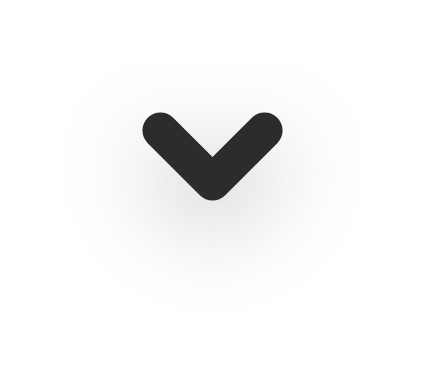
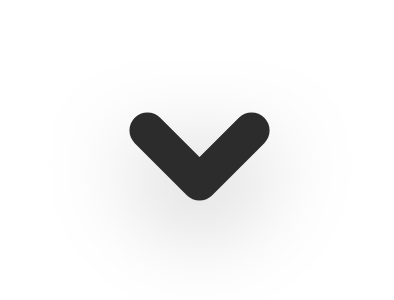
arrow fixed, dropdown animation

Changed region(s): [[0.3046, 0.3, 0.7005, 0.69]]

diff --git a/App.js b/App.js
@@ -71,7 +71,7 @@ export default function App() {
   const [bodyText, setBodyText] = React.useState('');
   const [currentKey, setCurrentKey] = React.useState('myCOLOR');
 
-  const [headerMenu, setHeaderMenu] = React.useState(new Animated.Value(60));
+  const [headerMenu, setHeaderMenu] = React.useState(new Animated.Value(90));
   const [
     headerMenuOptionsVisible,
     setHeaderMenuOptionsVisible,
@@ -161,12 +161,12 @@ export default function App() {
   };
 
   const toggleHeader = () => {
-    if (headerMenu._value === 200) {
-      Animated.timing(headerMenu, {
-        toValue: 30,
-        duration: 400,
-        easing: Easing.bounce,
+    if (headerMenu._value > 120) {
+      Animated.spring(headerMenu, {
+        toValue: 50,
+        bounciness: 0.5,
         useNativeDriver: false,
+        speed: 0.2
       }).start(toggleHeaderMenu(false));
       Animated.timing(spinValue, {
         toValue: 0,
@@ -178,11 +178,11 @@ export default function App() {
       setoptionsHeaderVisible(false);
       setHeaderMenuOptionsVisible(true);
       setoptionsVisible(true);
-      Animated.timing(headerMenu, {
+      Animated.spring(headerMenu, {
         toValue: 200,
-        duration: 400,
-        easing: Easing.bounce,
+        bounciness: 0.5,
         useNativeDriver: false,
+        speed: 0.2
       }).start(toggleHeaderMenu(true));
       Animated.timing(spinValue, {
         toValue: 1,
@@ -515,18 +515,18 @@ const styles = StyleSheet.create({
   headerText: {
     fontFamily: 'CircularStd-Black',
     color: 'black',
-    fontSize: hp('2.2%'),
+    fontSize: hp('2.35%'),
     textAlign: 'center'
   },
   bodyText: {
     fontFamily: 'CircularStd-Book',
     color: 'black',
-    fontSize: hp('2.2%')
+    fontSize: hp('2.35%')
   },
   topBold: {
     fontFamily: 'CircularStd-Black',
     color: 'black',
-    fontSize: hp('2.2%')
+    fontSize: hp('2.35%')
   },
   splash: {
         ...StyleSheet.absoluteFillObject,
@@ -553,19 +553,19 @@ const styles = StyleSheet.create({
     quizParagraph: {
       fontFamily: 'CircularStd-Book',
       color: 'black',
-      fontSize: hp('2.2%'),
+      fontSize: hp('2.35%'),
       },
       question: {
         fontFamily: 'CircularStd-Black',
         color: 'black',
-        fontSize: hp('2.2%'),
+        fontSize: hp('2.35%'),
         marginBottom: hp('7%'),
         marginTop: -hp('7%')
       },
       colorAttributesText: {
         fontFamily: 'CircularStd-Black',
         color: 'black',
-        fontSize: hp('2.2%'),
+        fontSize: hp('2.35%'),
         textTransform: 'capitalize',
         marginTop: hp('2%')
       },
@@ -577,7 +577,7 @@ const styles = StyleSheet.create({
       resultText: {
         fontFamily: 'CircularStd-Book',
         color: 'black',
-        fontSize: hp('2.2%'),
+        fontSize: hp('2.35%'),
         textAlign: 'center',
         marginTop: -hp('7%')
       },
@@ -612,7 +612,7 @@ const styles = StyleSheet.create({
       creditsTxt: {
         fontFamily: 'CircularStd-Book',
         color: 'black',
-        fontSize: hp('2.2%'),
+        fontSize: hp('2.35%'),
         marginTop: hp('10%'),
         padding: wp('14%')
       },
@@ -629,7 +629,8 @@ const styles = StyleSheet.create({
         position: 'absolute',
         zIndex: 5,
         alignSelf: "center",
-        marginTop: hp('7%'),
+        marginTop: hp('5.5%'),
+        overflow: 'visible',
       },
       elevatedMenuContainer: {
         shadowColor: "#000",
@@ -645,8 +646,9 @@ const styles = StyleSheet.create({
         backgroundColor: "white",
         alignItems: "center",
         flex: 1,
-        width: 200,
+        width: wp('47%'),
         alignItems: "center",
+        overflow: 'visible'
       },
 });
 
@@ -724,18 +726,19 @@ const styles = StyleSheet.create({
               })}
             </View>
           )}
-          <Animated.Image
-            style={{
-              width: wp("8%"),
-              height: wp("8%"),
-              transform: [{ rotate: spin }],
-              marginTop: 10,
-            }}
-            source={require("./assets/arrow.png")}
-          />
         </TouchableOpacity>
       </View>
     </Animated.View>
+    </View>
+    <View pointerEvents='none' style={{position: 'absolute', zIndex: 6, transform: [{translateX: wp('16%') }, {translateY: hp('7.5%')}]}}>
+    <Animated.Image
+      style={{
+        width: wp("8%"),
+        height: wp("8%"),
+        transform: [{ rotate: spin }],
+      }}
+      source={require("./assets/arrow.png")}
+    />
     </View>
 
       <Animated.Image pointerEvents={"none"} style={[styles.splash, { transform: [{translateY: splashOffsetY }]} ]} source={require('./assets/splash2-txt.png')} />
